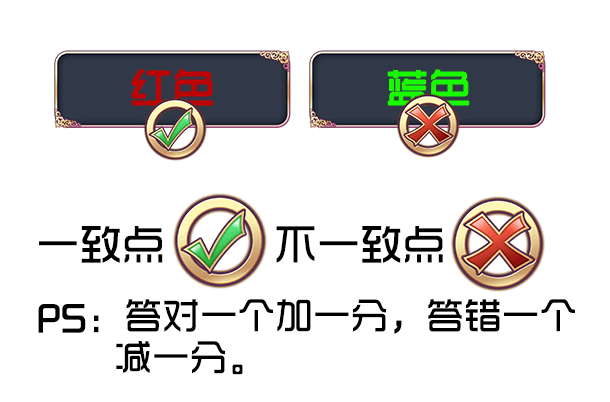
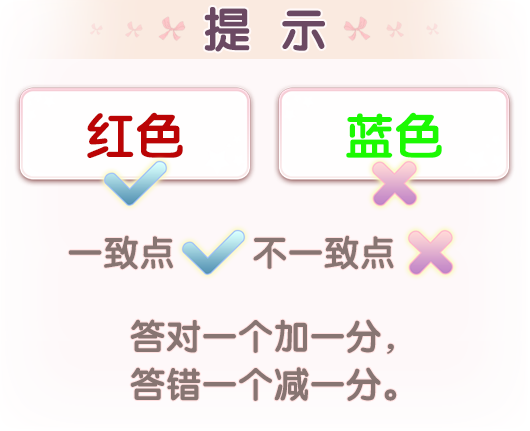
lakkey 160829:1423

diff --git a/sources/view/game/color/ColorLayer.cpp b/sources/view/game/color/ColorLayer.cpp
@@ -203,12 +203,9 @@ void ColorLayer::initView(){
     
 //    {// 3 2 1 go + 提示
 //        CCActionInterval * delaytime = CCDelayTime::create(0.f);
-    CCSprite * tishi = CCSprite::create("res/pic/game/color/guide_prompt_plane.png");
+    CCSprite * tishi = CCSprite::create("res/pic/game/color/games_yd_color.png");
     tishi->setPosition(ccp(DISPLAY->ScreenWidth()* .5f, DISPLAY->ScreenHeight()* .54f));
     this->addChild(tishi, 20, 0x121);
-    CCSprite * tishi1 = CCSprite::create("res/pic/game/color/games_yd_color.png");
-    tishi1->setPosition(ccp(tishi->getContentSize().width* .5f, tishi->getContentSize().height* .5f));
-    tishi->addChild(tishi1,2);
     
     CCSprite* kSpr = CCSprite::create("res/pic/game/color/guide_kuang2.png");
     kSpr->setPosition(ccp(tishi->getContentSize().width* .65f, 0));

diff --git a/sources/view/game/laji/LiveAiXin.cpp b/sources/view/game/laji/LiveAiXin.cpp
@@ -195,13 +195,9 @@ void LiveAiXin::setupView()
     }
     
     {
-        CCSprite * tishi = CCSprite::create("res/pic/game/color/guide_prompt_plane.png");
+        CCSprite * tishi = CCSprite::create("res/pic/game/color/games_yd_color.png");
         tishi->setPosition(ccp(DISPLAY->ScreenWidth()* .5f, DISPLAY->ScreenHeight()* .54f));
         this->addChild(tishi, 20, 0x121);
-        CCSprite * tishi1 = CCSprite::create("res/pic/game/laji/games_yd_housework.png");
-        tishi1->setPosition(ccp(tishi->getContentSize().width* .5f, tishi->getContentSize().height* .5f));
-        tishi->addChild(tishi1,2);
-        
         
         CCSprite* kSpr = CCSprite::create("res/pic/game/color/guide_kuang2.png");
         kSpr->setPosition(ccp(tishi->getContentSize().width* .65f, 0));

diff --git a/sources/view/game/sleep/GameJingli.cpp b/sources/view/game/sleep/GameJingli.cpp
@@ -125,12 +125,9 @@ void GameJingli::init_UI() {
 }
 
 void GameJingli::show_game_help() {
-    CCSprite * tishi = CCSprite::create("res/pic/game/color/guide_prompt_plane.png");
+    CCSprite * tishi = CCSprite::create("res/pic/game/sleep/sj_yd_sleep.png");
     tishi->setPosition(ccp(DISPLAY->ScreenWidth()* .5f, DISPLAY->ScreenHeight()* .54f));
     this->addChild(tishi, 20, 0x121);
-    CCSprite * tishi1 = CCSprite::create("res/pic/game/sleep/sj_yd_sleep.png");
-    tishi1->setPosition(ccp(tishi->getContentSize().width* .5f, tishi->getContentSize().height* .5f));
-    tishi->addChild(tishi1,2);
     
     CCSprite* kSpr = CCSprite::create("res/pic/game/color/guide_kuang2.png");
     kSpr->setPosition(ccp(tishi->getContentSize().width* .65f, 0));

diff --git a/sources/view/building/TopFloorCell.cpp b/sources/view/building/TopFloorCell.cpp
@@ -139,6 +139,10 @@ void TopFloorCell::update_boxes() {
     CCLOG("curPrecent = %f", curPrecent);
     _progress->setPercentage(curPrecent);
     
+    CCSprite* star = CCSprite::create("pic/building/progress/star.png");
+    star->setPosition(ccp(barSize.width * curPrecent, barSize.height * 0.5));
+    _progress->addChild(star);
+    
     int count = items->count();
     for (int i = 0; i < count; i++) {
         CCDictionary* item = (CCDictionary*)items->objectAtIndex(i);

diff --git a/sources/view/qingjingScene/StoryScene.cpp b/sources/view/qingjingScene/StoryScene.cpp
@@ -2030,6 +2030,7 @@ void StoryScene::getIndex(float dt){
     
     if (dialogItem->getArray() == NULL) {
         index = dialogItem->getNext();
+        CCLOG("StoryScene::getIndex -- %d", index);
         
         CCString* _achievement = CCString::createWithFormat("%s",dialogItem->getAchievement().c_str());
         if (index == -1) {
